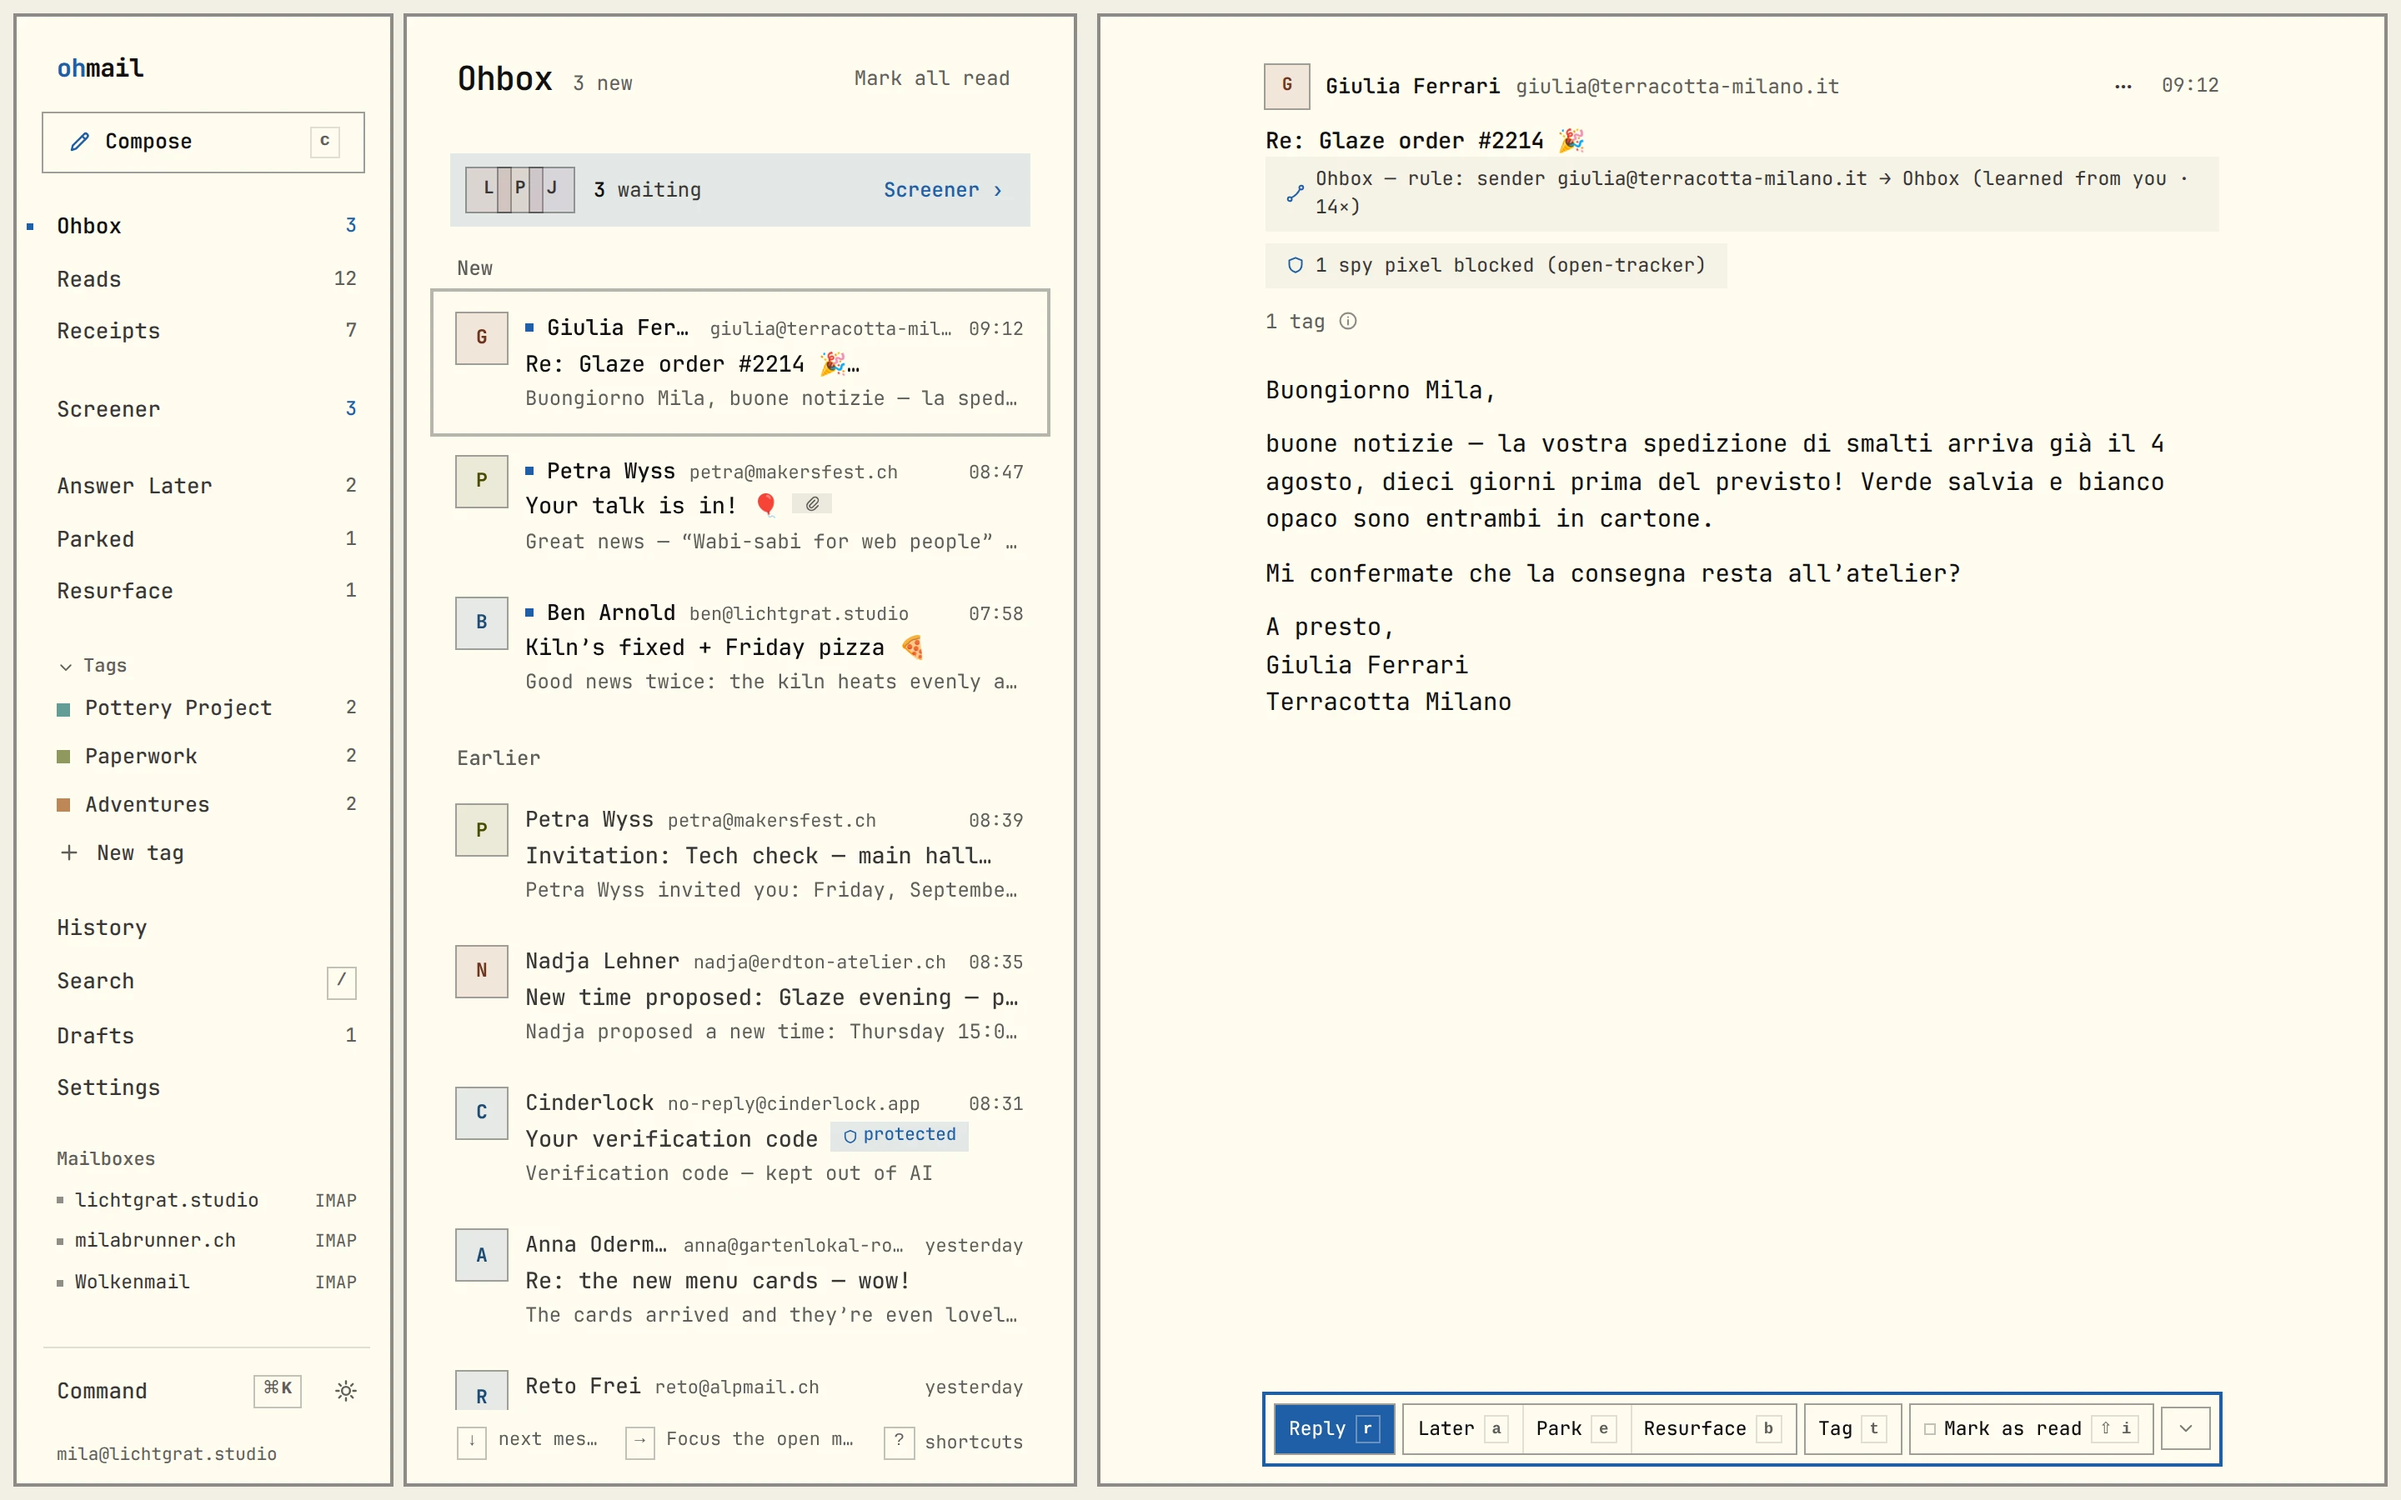
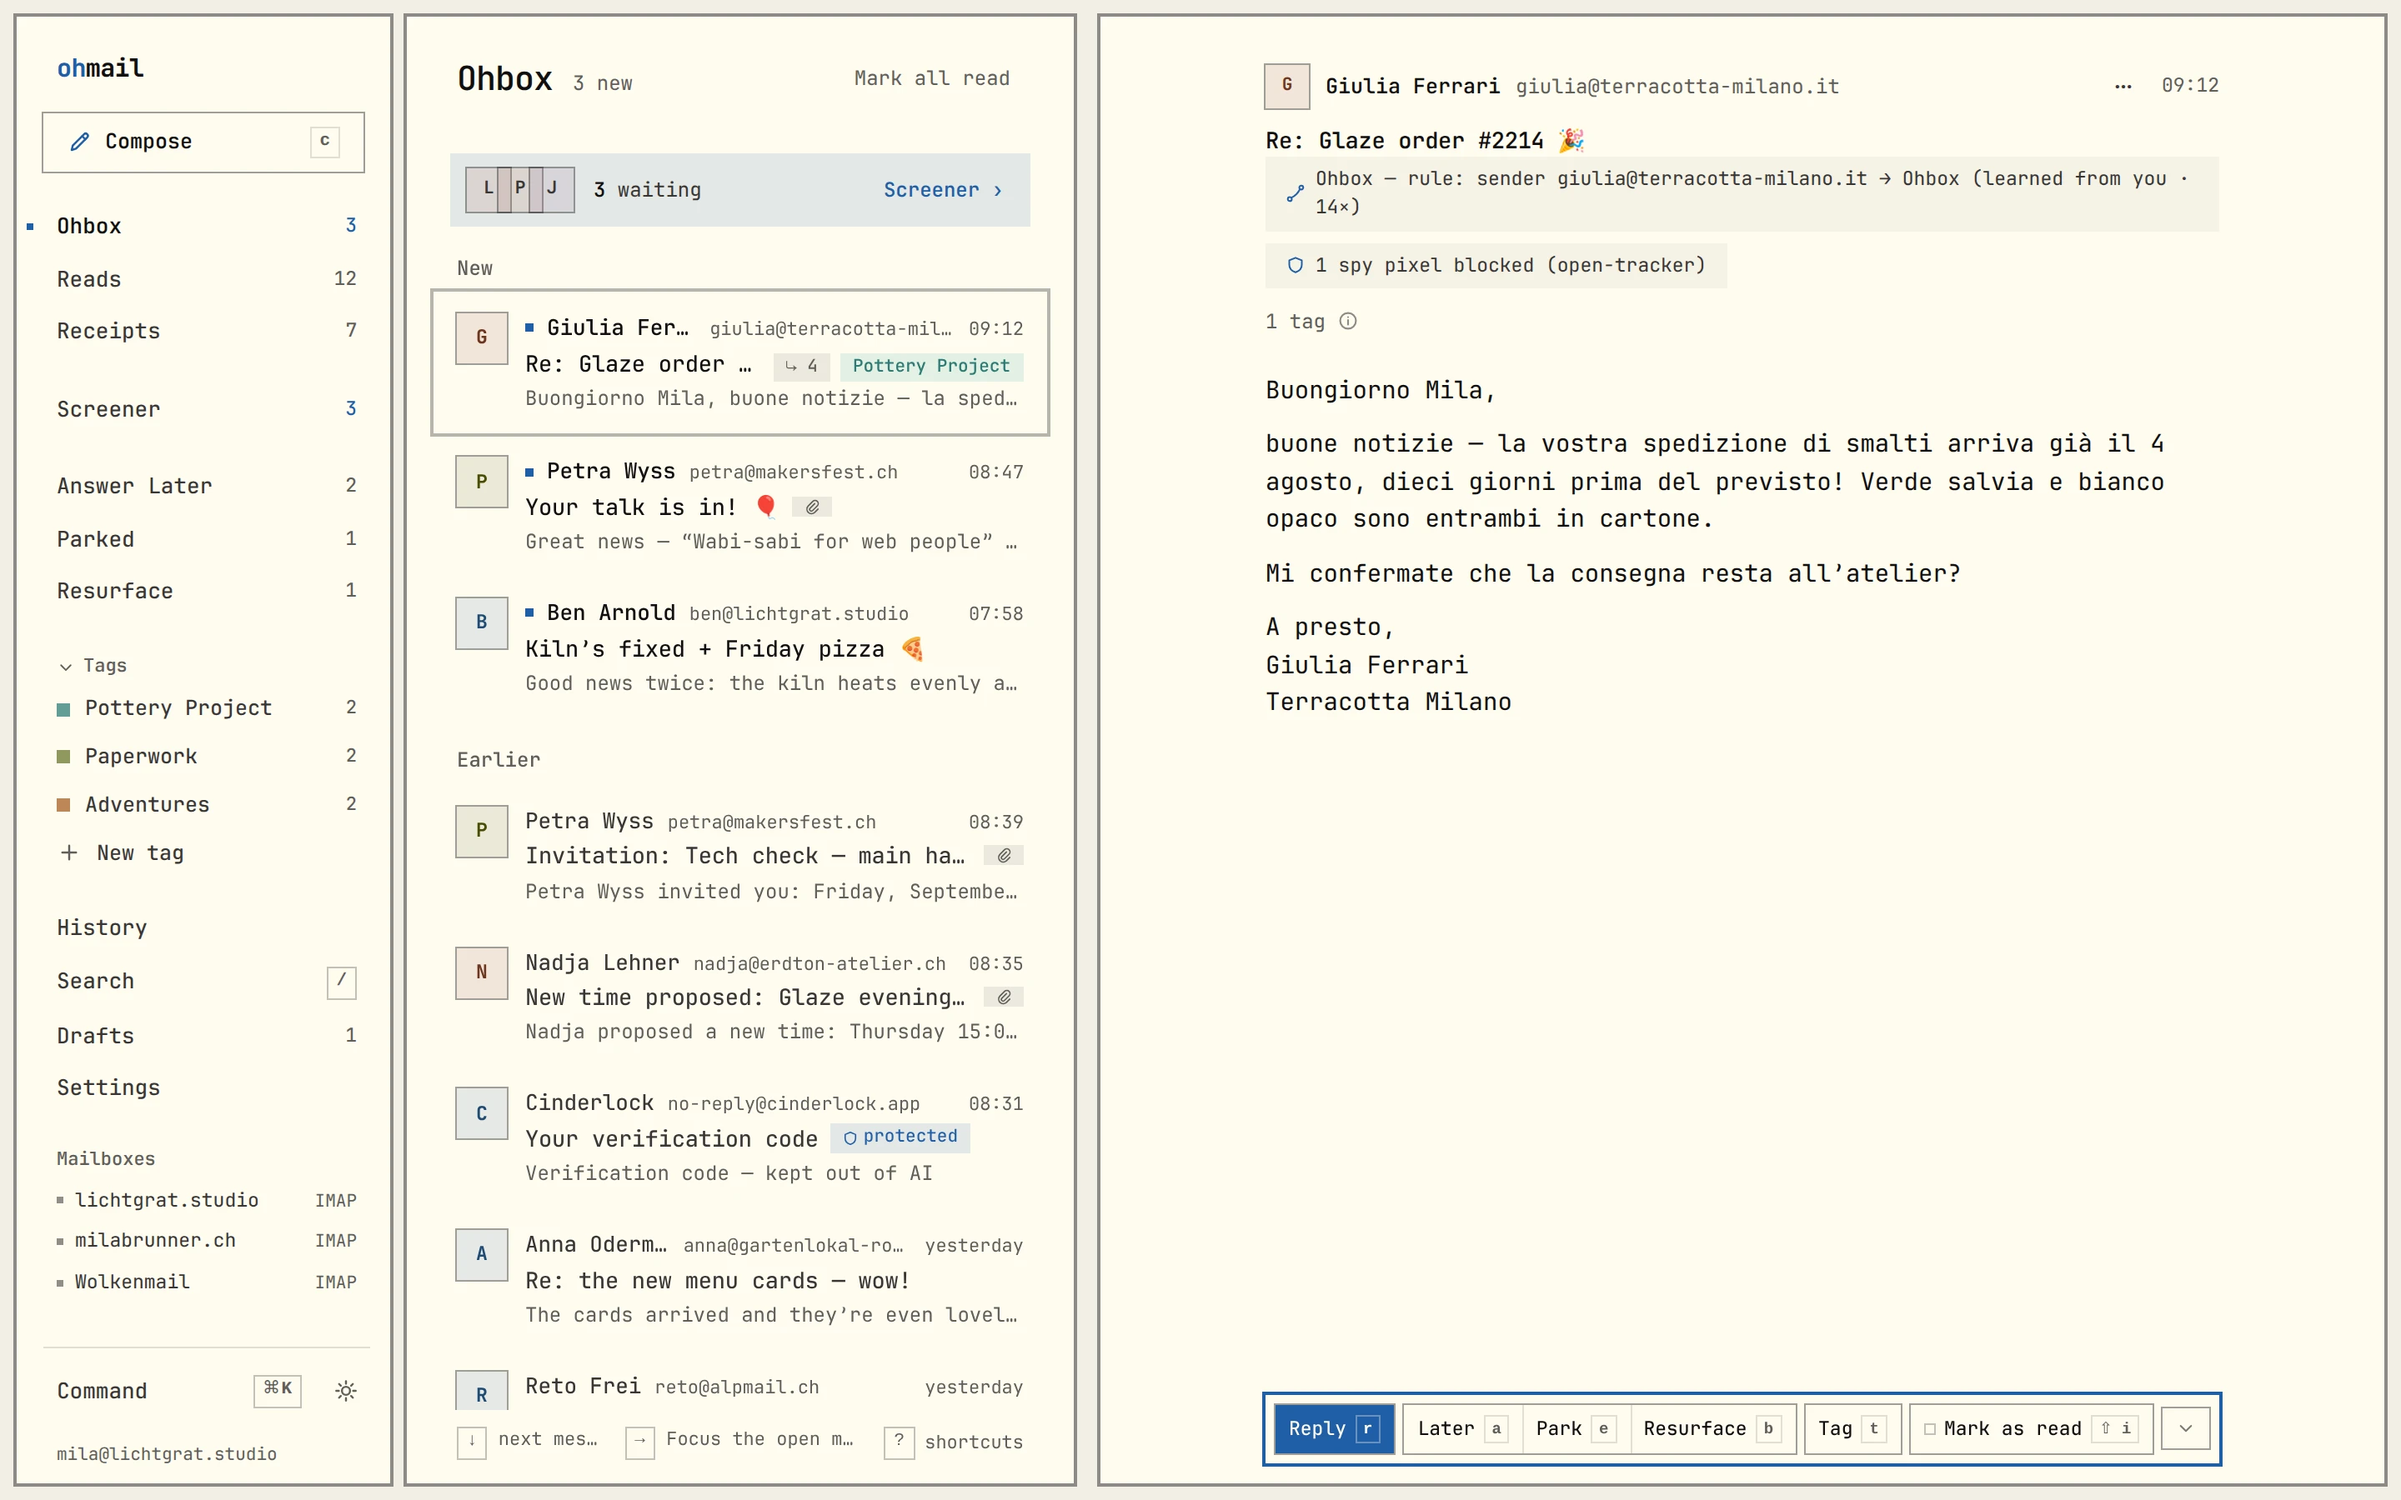
fix(ui): a long subject no longer hides the row's badges
The badge strip on a list row — the thread's message count, the participant
faces, the tag chips — used to live inside the subject span, which truncates
with an ellipsis. Any long subject therefore cut the strip off entirely, at
exactly the list widths the app actually renders: a conversation read as a
single message, and its tags disappeared with it.

The strip is now the subject's sibling on the same line. The subject is what
shrinks and ellipsizes; the strip always lands, and the amount column keeps its
right-edge position. Rows whose subject already fit look exactly as before.

Monorepo-Commit: 2b0507bd59bbc2d7c5a6514f7c160e8e488a0884

diff --git a/packages/ui/src/composites/row.css b/packages/ui/src/composites/row.css
@@ -23,13 +23,17 @@
 .dot-unread{width:5px;height:5px;border-radius:var(--r-avatar);background:var(--accent);flex:none;align-self:center;
   transition:opacity .7s var(--swift)}
 .justseen .dot-unread{opacity:0} /* rows AND stream cards */
+/* the badge strip sits BESIDE `.subj` in this flex row (see MessageRow.tsx): the subject
+   shrinks and ellipsizes, the strip never does — a long subject may not eat a thread's count.
+   The 7px the strip used to bring as margin is a negative offset against the row's 10px gap,
+   so nothing moved visually when it left the subject span. */
 .row-mid{display:flex;align-items:baseline;gap:10px;margin-top:2px}
 .row .subj{font-size:13.5px;font-weight:500;color:var(--ink);white-space:nowrap;overflow:hidden;text-overflow:ellipsis;letter-spacing:-.008em;min-width:0}
 .row.seen .subj{color:var(--ink2);font-weight:450}
 .row .amt{margin-left:auto;flex:none;font-variant-numeric:tabular-nums;font-size:12.5px;font-weight:550;color:var(--ink)}
 .row.seen .amt{color:var(--ink2)}
 .row .prev{font-size:12px;color:var(--ink3);white-space:nowrap;overflow:hidden;text-overflow:ellipsis;margin-top:1px}
-.row .badges{display:inline-flex;gap:6px;margin-left:7px;vertical-align:1px}
+.row .badges{display:inline-flex;gap:6px;flex:none;margin-left:-3px;vertical-align:1px}
 
 /* THREAD PARTICIPANT CIRCLES — the conversation's faces in the subject line's badge strip,
    standing immediately after its `⤷ N` count. They are NOT the row's lead: the lead is one

diff --git a/packages/ui/src/composites/MessageRow.tsx b/packages/ui/src/composites/MessageRow.tsx
@@ -366,11 +366,16 @@ export function MessageRow(props: MessageRowProps) {
           </span>
         ) : null}
       </span>
+      {/* The badge strip is the SUBJECT'S SIBLING, never its child (2026-08-31). Inside
+          `.subj` — a nowrap/hidden/ellipsis span — every badge vanished the moment a subject
+          ran long: the thread's `⤷ N`, the participants, the tag chips, all silently cut by
+          the ellipsis, at exactly the list widths the product actually renders (a 368px demo
+          pane hid the fixture thread's count in the mono face). A thread count is information,
+          not decoration, so the subject is what yields: it keeps min-width:0 and truncates,
+          the strip is flex:none and always lands. */}
       <span className="row-mid">
-        <span className="subj">
-          {subject}
-          {badges.length ? <span className="badges">{badges}</span> : null}
-        </span>
+        <span className="subj">{subject}</span>
+        {badges.length ? <span className="badges">{badges}</span> : null}
         {amount ? <span className="amt num">{amount}</span> : null}
       </span>
       {preview ? <span className="prev" style={{ display: "block" }}>{preview}</span> : null}
